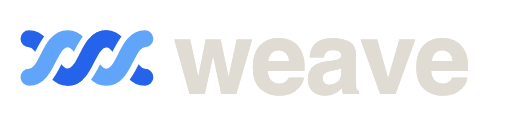
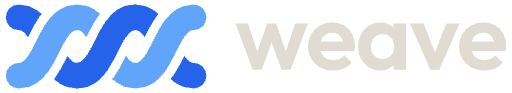
Lockups: bigger mark beside a centred word, a stacked lockup, outlined wordmark
Kyle picked option A (inline) and option C (stacked) on 2026-10-22.

Inline: the mark is 1.6x its old size (18.4 units tall, about 1.75 times
the word height), the word sits on the mark's centre line, 0.6 word
heights from it. Stacked: the mark is 75% of the word's width, half a word
height above it, both centred. lockupLayout() holds the proportions and
build-logos.test.mjs checks scale, centring and gaps against them.

The wordmark is now an outlined path (Outfit 600, -0.02em tracking), so
every lockup draws the same with or without Outfit installed, and the PNG
renders no longer wait on Google Fonts. Light lockups pair blue with ink
(decision 5B); the old light lockup carried sky.

Email: the invite lockup is 131x24, its PNGs 393x72 (3x, was 2x of
104x24). render-png.mjs renders each job on a fresh page, because a reused
page painted a stale frame into the stacked PNG.

Brand kit: L1-L4 (lockup-light, -dark, -stacked-light, -stacked-dark)
place the canonical lockup files, PNGs at 3x, listed in manifest.json,
guide.json and the kit README with recipes.

ponytail:
- brand/build-logos.mjs WORDMARK: glyph outlines generated once from the
  Outfit 600 static TTF with opentype.js 1.3.4 (getPath "weave", size 100,
  kerning on, letterSpacing -0.02, two decimals). Ceiling: a font or
  tracking change means regenerating by hand. Upgrade path: a
  brand/outline-wordmark.mjs script with opentype.js as a dev dependency.
[…]

diff --git a/src/mail.js b/src/mail.js
@@ -70,7 +70,7 @@ function shell(theme, { origin, preheader, body, footer }) {
   const S = STYLE(c);
   const at = (cls, extra = '') => ` class="${cls}" style="${[...cls.split(' ').map((k) => S[k]), extra].filter(Boolean).join(';')}"`;
   const mark = (t) => `${esc(origin)}/brand/email-lockup-${t}.png`;
-  const img = (t, hidden) => `<img${at(`mark-${t}`, `display:${hidden ? 'none' : 'block'};border:0;outline:none`)} src="${mark(t)}" width="104" height="24" alt="weave">`;
+  const img = (t, hidden) => `<img${at(`mark-${t}`, `display:${hidden ? 'none' : 'block'};border:0;outline:none`)} src="${mark(t)}" width="131" height="24" alt="weave">`;
   const lockup = theme ? img(theme, false) : `${img('light', false)}<!--[if !mso]><!-->${img('dark', true)}<!--<![endif]-->`;
   const dark = theme ? '' : `\n@media (prefers-color-scheme: dark){\n${darkRules()}\n}`;
   return `<!doctype html><html><head><meta charset="utf-8"><meta name="viewport" content="width=device-width,initial-scale=1"><meta name="color-scheme" content="light dark"><meta name="supported-color-schemes" content="light dark">

diff --git a/brand/kit/README.md b/brand/kit/README.md
@@ -2,7 +2,7 @@
 
 The weave badge, posters and patterns for the website, email, social, decks, print and merch. Every file here is generated from the canonical mark in [`../assets`](../assets) and [`../../public/brand`](../../public/brand), so the mark is never redrawn by hand.
 
-**Agents: start with [`manifest.json`](manifest.json).** It lists every asset with its code, SVG and PNG paths, pixel size, the ground it is drawn for and where it goes. Pick by `family` (`badge`, `poster`, `pattern`, `icon`) and `use`, then take the `svg` for web and print or the `png` for email and social uploads.
+**Agents: start with [`manifest.json`](manifest.json).** It lists every asset with its code, SVG and PNG paths, pixel size, the ground it is drawn for and where it goes. Pick by `family` (`lockup`, `badge`, `poster`, `pattern`, `icon`) and `use`, then take the `svg` for web and print or the `png` for email and social uploads.
 
 ## The badge
 
@@ -12,6 +12,8 @@ A sawtooth seal drawn after Peters Design Company, with the weave mark at the ce
 
 | Need | Use | Why |
 | --- | --- | --- |
+| Site, app or document header | `lockup-light` or `lockup-dark` (L1, L2) | Mark and word in one file, word outlined |
+| Sign-in, splash or square cover | `lockup-stacked-light` or `-dark` (L3, L4) | Fits a square or a narrow column |
 | Website hero or section background | `pattern-contour-light` or `-dark` (M1) as a full-bleed SVG, `badge-blue` (B1) on top | Vector, scales to any width |
 | Link preview (`og:image`) | `png/poster-og-contour.png` (X6) or `png/poster-og.png` (X1) | Link unfurlers need a 1200 × 630 raster |
 | Email header or signature | `png/badge-lockup-light.png` (B14) at 330 px wide, or `png/badge-small.png` (B12) at 48 px | Gmail strips SVG; PNGs are 2× for retina |
@@ -32,7 +34,7 @@ A sawtooth seal drawn after Peters Design Company, with the weave mark at the ce
 - Never redraw, recolor, outline or rotate the mark. Every asset embeds the canonical mark file.
 - Strand pairs stay as in [`../README.md`](../README.md): blue with ink on light, blue with sky on dark, cream with ice on brand blue.
 - Use each badge treatment on the ground named in `manifest.json`. A badge on the wrong ground loses its ring.
-- Ring type and wordmarks are live Outfit 600 text. The PNGs are rendered with Outfit loaded. Before print, outline the text in the SVG.
+- The L lockups outline their wordmark, so they print as they are. Ring type and the other wordmarks are live Outfit 600 text. The PNGs are rendered with Outfit loaded. Before print, outline the text in the SVG.
 - Backgrounds come from the Surfaces table in [`../README.md`](../README.md).
 
 ## Changing the kit
@@ -46,6 +48,17 @@ npm test -- --targeted test/brand-kit.test.mjs
 To change the badge words, edit `labels.json` and run both scripts. To add an asset, add it in `build-kit.mjs` and give it a `guide.json` entry; the test refuses an asset with no ground or use, and refuses committed files that drift from a fresh build.
 
 ## Assets
+
+### Lockup
+
+| Code | Preview | File | Size | Ground | Use |
+| --- | --- | --- | --- | --- | --- |
+| L1 | <img src="svg/lockup-light.svg" width="120" alt="Lockup, inline, light"> | [`lockup-light`](svg/lockup-light.svg) · [png](png/lockup-light.png) | 480 × 88 | white or light surface | site and app header; document header; slide footer; email header (png) |
+| L2 | <img src="svg/lockup-dark.svg" width="120" alt="Lockup, inline, dark"> | [`lockup-dark`](svg/lockup-dark.svg) · [png](png/lockup-dark.png) | 480 × 88 | ink or night surface | dark site and app header; dark slide footer; dark email header (png) |
+| L3 | <img src="svg/lockup-stacked-light.svg" width="80" alt="Lockup, stacked, light"> | [`lockup-stacked-light`](svg/lockup-stacked-light.svg) · [png](png/lockup-stacked-light.png) | 240 × 143 | white or light surface | sign-in and splash screens; square covers and avatars; event signage |
+| L4 | <img src="svg/lockup-stacked-dark.svg" width="80" alt="Lockup, stacked, dark"> | [`lockup-stacked-dark`](svg/lockup-stacked-dark.svg) · [png](png/lockup-stacked-dark.png) | 240 × 143 | ink or night surface | dark sign-in and splash screens; video end cards; dark covers |
+
+Lockup PNGs are 3×. The lockups come from `../build-logos.mjs` (`lockupLayout()`); the kit places those files as they are.
 
 ### Badge
 

diff --git a/brand/README.md b/brand/README.md
@@ -17,7 +17,7 @@ width 3.5 on a 48-unit grid. The under-strand is cut with SVG masks
 | --- | --- | --- |
 | 1 | App icon tile | **A** — blue `#2563eb` squircle, cream `#e0dcd4` + ice `#bcd3ff` strands |
 | 2 | Favicon | **B** — mono blue, strands thickened to 4.5 (optical correction) |
-| 3 | Lockup | **A** — inline, mark ≈ x-height beside the wordmark |
+| 3 | Lockup | **A** inline: mark at 1.6x (18.4 units tall, about 1.75 times the word height) beside the wordmark, the word centred on the mark's centre line, 0.6 word heights apart. **C** stacked: mark 75% of the word's width, half a word height above it, both centred. Kyle, 2026-10-22; replaces the 2026-08-16 inline lockup with the mark at x-height |
 | 4 | Wordmark | **B** — "weave" lowercase, Outfit 600, −0.02em tracking |
 | 5 | Light-mode strand pair | **B** — blue `#2563eb` + ink `#0c1b33` |
 | 6 | Canonical one-color mark | **A** — brand blue mono |
@@ -82,11 +82,12 @@ straight into `public/brand/`; the rest go to `assets/`. No file lives in both.
 | `weave-mark-white.svg` | On blue-filled contexts (buttons, banners) |
 | `weave-app-icon.svg` | 512 squircle app icon |
 | `weave-loader-dark.svg` / `-light.svg` | Animated loader (decision 7), same strand pairs as the marks |
-| `weave-lockup-dark.svg` / `-light.svg` | Inline mark + wordmark |
-| `weave-lockup-email-light.svg` / `-dark.svg` | The invite emails' lockup (Feature #216): ink second strand on light, `#3b82f6` lead on dark, as approved 2026-10-03. `render-png.mjs` draws them, with Outfit loaded, to `public/brand/email-lockup-{light,dark}.png` at 208x48, which weave serves to mail clients (Gmail strips SVG) |
+| `weave-lockup-dark.svg` / `-light.svg` | Inline lockup (decision 3A): blue + sky with a cream word on dark, blue + ink with an ink word on light |
+| `weave-lockup-stacked-dark.svg` / `-light.svg` | Stacked lockup (decision 3C), same pairs |
+| `weave-lockup-email-light.svg` / `-dark.svg` | The invite emails' lockup (Feature #216): ink second strand on light, `#3b82f6` lead on dark, as approved 2026-10-03. `render-png.mjs` draws them to `public/brand/email-lockup-{light,dark}.png` at 393x72, three times the 131x24 the email shows (`LOCKUP_SIZES`), which weave serves to mail clients (Gmail strips SVG) |
 
 `assets/png/`: rasters rendered via headless Chromium: favicon 16/48, app icon
-512/180, mark 256, lockup 512, plus
+512/180, mark 256, inline and stacked lockup 512 wide, plus
 `weave-loader-{dark,light}.gif` (see below).
 
 ## The loader (decision 7)
@@ -149,8 +150,11 @@ when the stage is too narrow to hold the mark at 55% of its width.
 - **Never** recolor strands outside the pairs above, outline the mark, or
   rotate the horizontal mark (vertical/diagonal ropes were explored and
   rejected for the primary — see `docs/`).
-- The lockup wordmark is Outfit 600; the SVG falls back to the system stack if
-  Outfit isn't loaded.
+- The lockup wordmark is Outfit 600 with -0.02em tracking, outlined to a path
+  (`WORDMARK` in `build-logos.mjs`), so every lockup draws the same with or
+  without Outfit installed and needs no outlining before print.
+- `lockupLayout()` holds the lockup proportions; `build-logos.test.mjs` checks
+  the mark scale, the centring and the gaps against them.
 
 ## Rebuilding
 
